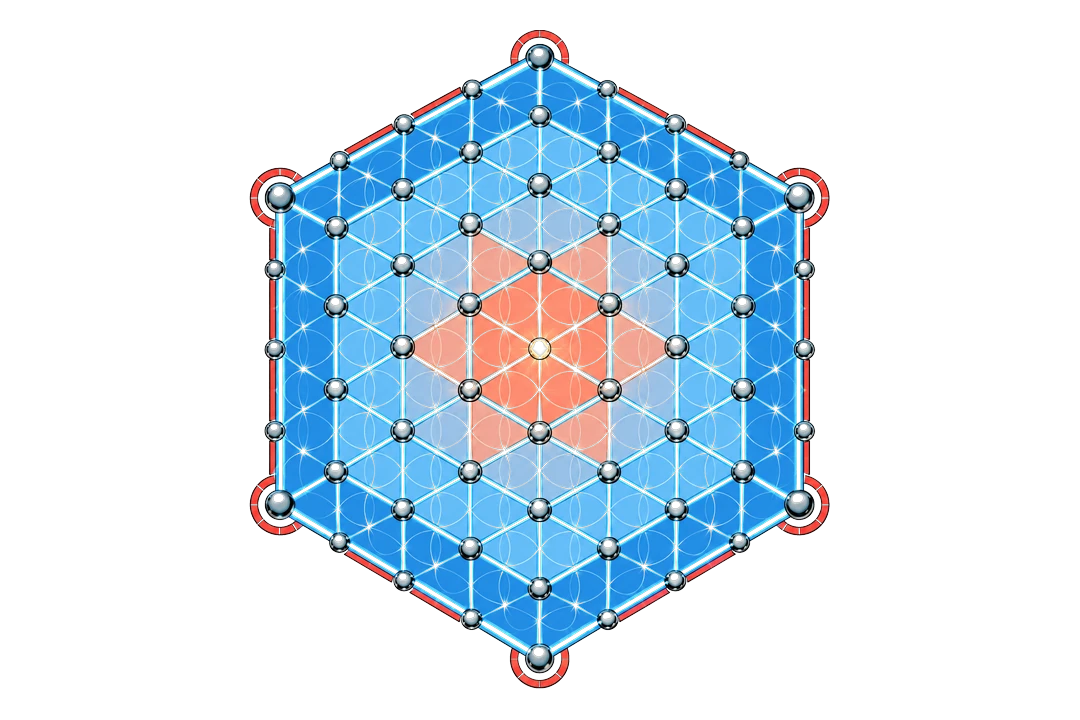
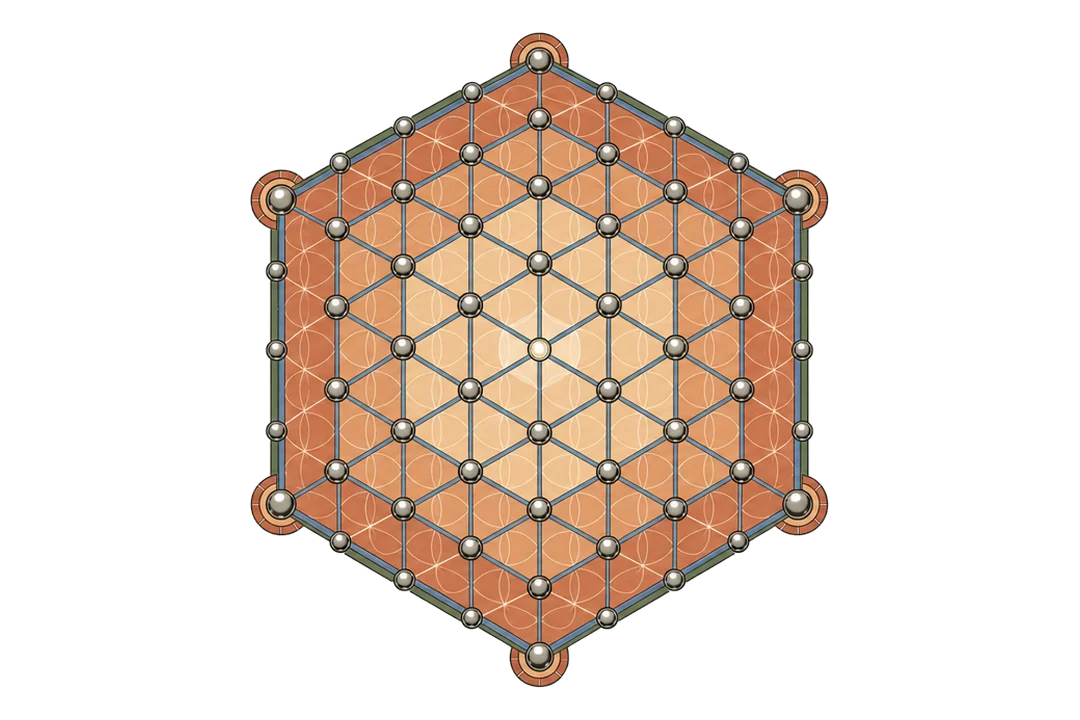
feat: refresh Pluralistic Futures Fellowship site [verified]

diff --git a/index.html b/index.html
@@ -3,8 +3,8 @@
 <head>
   <meta charset="UTF-8">
   <meta name="viewport" content="width=device-width, initial-scale=1.0">
-  <title>d/acc Fellowship — Cape Institute for Safe AI</title>
-  <meta name="description" content="Cultivating human agency in a rapidly changing world. A fellowship in Cape Town, March – June 2027.">
+  <title>Pluralistic Futures Fellowship — Cape Institute for Safe AI</title>
+  <meta name="description" content="Building post-AGI institutions for robustly pluralistic futures. A research fellowship in Cape Town, April – July 2027.">
   <link rel="icon" href="assets/favicon/favicon.ico" sizes="any">
   <link rel="icon" type="image/png" sizes="16x16" href="assets/favicon/favicon-16.png">
   <link rel="icon" type="image/png" sizes="32x32" href="assets/favicon/favicon-32.png">
@@ -57,19 +57,19 @@
     <section id="top" class="hero">
       <div class="wrap hero__grid">
         <div class="hero__text">
-          <h1 class="hero__title">Autumn 2027 Fellowship</h1>
+          <h1 class="hero__title">Pluralistic Futures Fellowship</h1>
           <div class="box hero__box">
-            <p class="hero__tagline">Cultivating human agency in a rapidly changing world.</p>
-            <p class="body-lead">A three-month, in-person fellowship for philosopher-builders, hosted by the <a href="https://www.cisai.co" target="_blank" rel="noopener" class="inline-link">Cape Institute for Safe AI</a> in Cape Town from March to June 2027.</p>
+            <p class="hero__tagline">Building post-AGI institutions for robustly pluralistic futures.</p>
+            <p class="body-lead">A full-time, three-month research program for participants from diverse backgrounds around the world, hosted by the <a href="https://www.cisai.co" target="_blank" rel="noopener" class="inline-link">Cape Institute for Safe AI</a> in Cape Town from April to July 2027.</p>
             <div class="hero__actions">
               <a href="https://tally.so/r/xXA8dy" target="_blank" rel="noopener" class="btn">Apply as a fellow <span class="arrow" aria-hidden="true">→</span></a>
               <a href="#tracks" class="btn btn--ghost">See the tracks</a>
             </div>
-            <p class="hero__deadline"><span class="dot" aria-hidden="true"></span>Applications close 22 November 2026</p>
+            <p class="hero__deadline"><span class="dot" aria-hidden="true"></span>Applications close mid-February 2027</p>
           </div>
         </div>
         <figure class="hero__image">
-          <img src="assets/illustrations/hero.webp" width="1600" height="923" alt="A floating island with Table Mountain at its centre and a solarpunk Cape Town village, with leader lines out to four panels: the settlement under a hexagonal dome, a networked globe, people dancing in a ring under a tree, and a telescope looking out at dawn">
+          <img src="assets/illustrations/hero-archipelago.webp?v=2" width="1200" height="1180" alt="Five floating islands linked by bridges to a central amphitheatre: a terraced market village, a wild mountain with a waterfall, a spaceport with domed labs and solar arrays, greenhouses guarded by floating blue hexagonal panels, and a cultural quarter with dancers, a mural and a mosaic-tiled building">
         </figure>
       </div>
 
@@ -80,7 +80,7 @@
             <span class="fact__label">in residence</span>
           </li>
           <li class="fact">
-            <span class="fact__value">Mar – Jun 2027</span>
+            <span class="fact__value">Apr – Jul 2027</span>
             <span class="fact__label">program dates</span>
           </li>
           <li class="fact">
@@ -88,7 +88,7 @@
             <span class="fact__label">hosted at the <a href="https://www.cisai.co" target="_blank" rel="noopener" class="inline-link">Cape Institute for Safe AI</a></span>
           </li>
           <li class="fact">
-            <span class="fact__value">$3,500/mo</span>
+            <span class="fact__value">$5,000/mo</span>
             <span class="fact__label">stipend</span>
           </li>
         </ul>
@@ -105,7 +105,7 @@
           <div class="box">
             <p class="body-lead">Humanity is entering an era of unprecedented uncertainty, complexity, and volatility. The surging current of technological progress threatens to overwhelm existing institutions, exacerbating existing fragilities. To flourish in such a world, we must build systemic resilience, increase our ability to coordinate to solve collective problems, and empower humanity.</p>
             <h3 class="box__subhead">The nature of this program</h3>
-            <p class="body-lead">This is a mentorship-based, in-person fellowship program, where we aim to accelerate <a href="https://blog.cosmos-institute.org/p/the-philosopher-builder" target="_blank" rel="noopener" class="inline-link">philosopher-builders</a> to develop interventions that serve humanity in the aforementioned ways. Fellows are paired with established mentors, and develop a project alongside a cohort of peers over three months. The fellowship will run from March to June 2027, and will be hosted at the <a href="https://www.cisai.co" target="_blank" rel="noopener" class="inline-link">Cape Institute for Safe AI</a>'s office space. Participants will be provided with resources for building their knowledge and network, and financial support covering their living and travel expenses.</p>
+            <p class="body-lead">This is a mentorship-based, in-person research program around key topics relating to AGI institutions, cooperative AI, and AI resilience. The key aim of this fellowship is to provide the foundations for robust pluralism in a post-AGI world. Fellows are paired with established mentors, and develop a project alongside a cohort of peers over three months. The fellowship will run from April to July 2027, kicks off with a week-long retreat, and will be hosted at the <a href="https://www.cisai.co" target="_blank" rel="noopener" class="inline-link">Cape Institute for Safe AI</a>'s office space. The program acts as a hiring and pre-seed funnel, with fellows presenting to a cohort of organisations and funders at a closing showcase on 16 July. Participants will be provided with resources for building their knowledge and network, and financial support covering their living and travel expenses.</p>
           </div>
         </div>
       </div>
@@ -114,38 +114,38 @@
     <!-- TRACKS -->
     <section id="tracks" class="section">
       <div class="wrap">
-        <h2 class="section-title">Four tracks for differential acceleration.</h2>
+        <h2 class="section-title">Four tracks for a more pluralistic future.</h2>
 
         <div class="tracks">
           <article class="track">
-            <img class="track__image" src="assets/illustrations/resilience.webp" width="1080" height="720" loading="lazy" alt="A hexagonal energy-field shield: a honeycomb mesh of steel nodes and glowing blue conduits around a warm salmon centre">
+            <img class="track__image" src="assets/illustrations/resilience.webp?v=4" width="1080" height="720" loading="lazy" alt="A hexagonal shield with a honeycomb lattice in terracotta and sandstone, metallic nodes and slate-green edges">
             <div class="track__body">
               <h3 class="track__title">Resilience</h3>
-              <p class="track__desc">This track includes developing the ability of humanity to defend against, build tolerance for, and adapt to the various threats that we face, along the axis of cyber, bio, and epistemic risks. This includes topics such as multi-agent security, increasing cyberdefence, and pandemic incident forecasting.</p>
+              <p class="track__desc">Defense-dominant interventions that enable the function of civilization despite the cyber and epistemic risks that AI brings. Includes multi-agent security, provably secure systems, and cognitive security.</p>
             </div>
           </article>
 
           <article class="track">
-            <img class="track__image" src="assets/illustrations/coordination.webp" width="1080" height="720" loading="lazy" alt="The Earth wrapped in a network of connections linking cities across the globe">
+            <img class="track__image" src="assets/illustrations/coordination.webp?v=4" width="1080" height="720" loading="lazy" alt="The Earth wrapped in a network of connections linking cities across the globe">
             <div class="track__body">
               <h3 class="track__title">Coordination</h3>
-              <p class="track__desc">This track refers to interventions that can produce pareto-optimal advances in inter-agent interactions, in systems of human, artificial, and mixed minds. This includes topics such as cooperative AI, AI for democracy, and building coalitions for steering AI outcomes.</p>
+              <p class="track__desc">Defense-flavored coordination technology that enables heterogeneous actors to coordinate, find pareto optimal agreements, and handle dissent effectively.</p>
             </div>
           </article>
 
           <article class="track">
-            <img class="track__image" src="assets/illustrations/empowerment.webp" width="1080" height="720" loading="lazy" alt="A ring of dancers after Matisse, hands linked, alternating solid blue figures and iridescent chrome figures">
+            <img class="track__image" src="assets/illustrations/empowerment.webp?v=4" width="1080" height="720" loading="lazy" alt="A ring of dancers after Matisse, hands linked, alternating solid olive-green figures and silvery chrome figures with terracotta accents">
             <div class="track__body">
               <h3 class="track__title">Empowerment</h3>
-              <p class="track__desc">This track refers to interventions that empower and protect the sovereignty of a wide set of actors. This includes distributing AI capabilities safely, enabling greater individual control of personal data, and secure neurotech.</p>
+              <p class="track__desc">Extending human agency and reaping the benefits of advanced AI without unacceptable privacy trade-offs or degrading societal trust.</p>
             </div>
           </article>
 
           <article class="track">
-            <img class="track__image" src="assets/illustrations/hope.webp" width="1080" height="720" loading="lazy" alt="A dawn landscape seen through a telescope eyepiece: a faceted crystal hovering over rolling hills as the sun rises">
+            <img class="track__image" src="assets/illustrations/hope.webp?v=4" width="1080" height="720" loading="lazy" alt="A dawn landscape seen through a telescope eyepiece: a faceted crystal hovering over rolling hills as the sun rises">
             <div class="track__body">
               <h3 class="track__title">Hope</h3>
-              <p class="track__desc">This track refers to interventions that sketch out feasible and desirable visions for the future.</p>
+              <p class="track__desc">Sketching positive pluralistic visions for the future and suggesting pathways to reach them while acknowledging the possible risks of AI.</p>
               <p class="track__desc">Existing work includes <a href="https://www.existentialhope.com/" target="_blank" rel="noopener" class="inline-link"><em>Existential Hope</em></a> by the Foresight Institute, <a href="https://www.forethought.org/research/design-sketches-for-a-more-sensible-world" target="_blank" rel="noopener" class="inline-link"><em>Design Sketches for a more sensible world</em></a> by Forethought, and <a href="https://airesilience.net/" target="_blank" rel="noopener" class="inline-link"><em>AI Resilience</em></a> by Kembery and Ammann.</p>
             </div>
           </article>
@@ -323,15 +323,15 @@
             </div>
             <div class="details__item">
               <dt>Application deadline</dt>
-              <dd>22nd of November, 2026.</dd>
+              <dd>Mid-February 2027.</dd>
             </div>
             <div class="details__item">
               <dt>Commitment</dt>
-              <dd>This is a full-time program between March and June 2027. Generally, we will not accept candidates that have work commitments throughout the fellowship that exceed 10 hours/week, but please contact <a href="mailto:dacc@cisai.co" class="inline-link">dacc@cisai.co</a> to request an exception.</dd>
+              <dd>This is a full-time program between April and July 2027. Generally, we will not accept candidates that have work commitments throughout the fellowship that exceed 10 hours/week, but please contact <a href="mailto:info@cisai.co" class="inline-link">info@cisai.co</a> to request an exception.</dd>
             </div>
             <div class="details__item">
               <dt>Stipend</dt>
-              <dd>$3,500/month for living expenses. Note that these are generous given the comparatively low cost of living in South Africa.</dd>
+              <dd>$5,000/month for living expenses. Note that these are generous given the comparatively low cost of living in South Africa.</dd>
             </div>
             <div class="details__item">
               <dt>Accommodation</dt>
@@ -351,7 +351,7 @@
             </div>
             <div class="details__item">
               <dt>Compute budget</dt>
-              <dd>We provide a compute budget of $1,500 for the duration of the fellowship.</dd>
+              <dd>We provide a compute budget of $15,000 for the duration of the fellowship.</dd>
             </div>
             <div class="details__item">
               <dt>Participants</dt>
@@ -371,12 +371,12 @@
 
         <div class="theory">
           <figure class="theory__image theory__image--bleed theory__image--square">
-            <img src="assets/illustrations/dacc-hex.webp" width="1024" height="1024" loading="lazy" alt="A boy stands at a fork in the road with a bear, Deceleration, behind him. The left path leads to Domination (centralized power), the right to Doom (existential risks, gray-zone war of all against all), and the centre to &lt;d/acc&gt; (Avoid all three traps, secure bright future for humanity).">
+            <img src="assets/illustrations/pluralism-fork.webp?v=1" width="1200" height="1200" loading="lazy" alt="Three travellers from different cultures walk away from a bear labelled Deceleration towards a fork in the road. On the left a path climbs to a grey fortress, Domination (centralised power); on the right a path leads to a smoking ruin, Doom (existential risks, gray-zone war of all against all); in the centre many paths lead to distinct kingdoms beneath the label Pluralism (avoids all three traps, opens many possible good futures).">
           </figure>
           <div class="box theory__text">
-            <h3 class="box__title">Why d/acc?</h3>
-            <p class="body-lead">d/acc is a philosophy on technological progress introduced by Vitalik Buterin, that advocates for the differential advancement of technologies that support democracy, decentralisation, and defence. This view of selective technological progress is broadly optimistic about the value of technology, but recognises that some forms of technology create asymmetric risk and undermine plurality (Human.Tech, "Building the Future in the Andes."). Furthermore, d/acc emphasises that the distribution of technological advancement is critical for good futures, especially in relation to how technology affects power structures, and vice versa.</p>
-            <p class="body-lead">This fellowship aims to support agendas relating to technological progress that are relatively neglected, largely due to the fact that they require skepticism about the trustworthiness of tech companies, and aims to empower actors outside of the US, though not exclusively.</p>
+            <h3 class="box__title">Why pluralism?</h3>
+            <p class="body-lead">The future is deeply uncertain, yet centralised approaches to AI safety may inadvertently cut off the potential for humanity to explore a richer and more diverse set of values. Furthermore, approaches to AI risk that integrate a greater degree of collectivity may also prevent failure modes such as <a href="https://arxiv.org/abs/2501.16946" target="_blank" rel="noopener" class="inline-link">gradual disempowerment</a>, <a href="https://80000hours.org/problem-profiles/extreme-power-concentration/" target="_blank" rel="noopener" class="inline-link">extreme power concentration</a>, and a <a href="https://asteriskmag.com/issues/15/beware-the-permanent-periphery" target="_blank" rel="noopener" class="inline-link">permanent periphery</a>.</p>
+            <p class="body-lead">That said, existing efforts at addressing AI collectively, such as through middlepower AI governance and international multinational organisations are plagued by institutional difficulties: they are slow, distrusted, poor at collective action, and fundamentally unsuited to coordinate the plethora of coordination problems that large systems of agentic AI pose. To avoid doom, stand against AI-enabled domination, we must chart a third way towards better, more hopeful futures.</p>
           </div>
         </div>
 
@@ -386,11 +386,15 @@
           </figure>
           <div class="box theory__text">
             <h3 class="box__title">Why Cape Town</h3>
-            <p class="body-lead">This fellowship is run by the <a href="https://www.cisai.co" target="_blank" rel="noopener" class="inline-link">Cape Institute for Safe AI</a> (CISAI). CISAI aims to be a world-class science and technology hub, specifically pushing the frontier of differential technological advancement. CISAI aims to attract <a href="https://blog.cosmos-institute.org/p/the-philosopher-builder" target="_blank" rel="noopener" class="inline-link">philosopher-builders</a> who recognise the importance of building systemic resilience, improving coordination around collective action problems, and empowering a pluralistic humanity. CISAI's advantage in this regard is its connections to some of the top academic institutions in Africa and Cape Town's existing position as a tourist hub that internationals are glad to travel to. We believe success at this aim will have local and national implications that could scale to the rest of the continent and the world.</p>
+            <p class="body-lead">This fellowship is run by the <a href="https://www.cisai.co" target="_blank" rel="noopener" class="inline-link">Cape Institute for Safe AI</a> (CISAI). CISAI aims to be a world-class science and technology hub. CISAI aims to attract researchers who recognise the importance of building systemic resilience, improving coordination around collective action problems, and empowering a pluralistic humanity. CISAI's advantage in this regard is its connections to some of the top academic institutions in Africa and Cape Town's existing position as a tourist hub that internationals are glad to travel to. We believe success at this aim will have local and national implications that could scale to the rest of the continent and the world.</p>
             <p class="body-lead">Furthermore, the themes of this fellowship are particularly relevant to the broader African context than many existing agendas in AI safety, which often presume access to the frontier of AI development.</p>
 
-            <details class="read-more">
-              <summary>Read more</summary>
+            <button type="button" class="read-more__open" popovertarget="africa-topics">Read more on why these topics relate to Africa</button>
+            <div id="africa-topics" class="read-more__popup" popover role="dialog" aria-labelledby="africa-topics-title">
+              <div class="read-more__popup-head">
+                <h3 id="africa-topics-title" class="box__title">Why these topics relate to Africa</h3>
+                <button type="button" class="read-more__close" popovertarget="africa-topics" popovertargetaction="hide" aria-label="Close">×</button>
+              </div>
               <div class="read-more__content">
                 <div class="read-more__item">
                   <h4>Resilience</h4>
@@ -398,18 +402,18 @@
                 </div>
                 <div class="read-more__item">
                   <h4>Coordination</h4>
-                  <p>South Africa is currently governed by a coalition government on the national level, and many municipalities are governed similarly. These coalitions are often weak and ineffectual, failing to steer the country into prosperity and often failing to provide basic services. Concurrently, pan-African institutions such as the African Union are often unable to effectively govern continental outcomes. We believe that technology can be used beneficially in this context to uplift human coordination and resolve resource sharing problems. This perspective aligns with the Continental Strategy on AI outlined by the African Union.</p>
+                  <p>South Africa is currently governed by a <a href="https://en.wikipedia.org/wiki/Government_of_National_Unity_(South_Africa,_2024)" target="_blank" rel="noopener" class="inline-link">coalition government</a> on the national level, and many municipalities are governed similarly. These coalitions are often weak and ineffectual, failing to steer the country into prosperity and often failing to provide basic services. Concurrently, pan-African institutions such as the African Union are often unable to effectively govern continental outcomes. We believe that technology can be used beneficially in this context to uplift human coordination and resolve resource sharing problems. This perspective aligns with the <a href="https://au.int/en/documents/20240809/continental-artificial-intelligence-strategy" target="_blank" rel="noopener" class="inline-link">Continental Strategy on AI</a> outlined by the African Union.</p>
                 </div>
                 <div class="read-more__item">
                   <h4>Empowerment</h4>
-                  <p>Africa is expected to have rapid AI adoption, given that it is, demographically, the youngest, most quickly growing continent. AI could easily create dynamics that create further fragmentation, oppression, and disempowerment. Creating pathways for Africans to empower themselves would have large implications for the wellbeing of humans on the continent and future generations.</p>
+                  <p>Africa is expected to have rapid AI adoption, given that it is, demographically, the <a href="https://www.wilsoncenter.org/blog-post/africas-median-age-about-19-median-age-its-leaders-about-63" target="_blank" rel="noopener" class="inline-link">youngest</a>, most quickly growing continent. AI could easily create dynamics that create further fragmentation, oppression, and disempowerment. Creating pathways for Africans to empower themselves would have large implications for the wellbeing of humans on the continent and future generations.</p>
                 </div>
                 <div class="read-more__item">
                   <h4>Hope</h4>
                   <p>Africa is highly diverse culturally, and there are often tensions between groups. Providing an inspiring and enlivening vision of the future for people to work towards together would be beautiful.</p>
                 </div>
               </div>
-            </details>
+            </div>
           </div>
         </div>
       </div>
@@ -437,8 +441,8 @@
                 <p>This will be a five-phase application process. The first phase will take approximately 45–75 minutes to complete. We encourage you to submit your application even if it feels unpolished; we value authenticity and substance over perfect presentation. We value inclusion and encourage applicants from diverse backgrounds. Please contact us if you require special accommodation in order to apply.</p>
                 <ol class="phases">
                   <li>
-                    <h4>Initial review <span class="phases__deadline">deadline 22 November 2026</span></h4>
-                    <p>Applications are reviewed on a rolling basis with decisions made by late December, 2026. Early submission is encouraged.</p>
+                    <h4>Initial review <span class="phases__deadline">deadline mid-February 2027</span></h4>
+                    <p>Applications are reviewed on a rolling basis with final offers made by mid-March 2027. Early submission is encouraged.</p>
                   </li>
                   <li>
                     <h4>Paid work sample <span class="phases__deadline">2–3 hours</span></h4>
@@ -463,11 +467,11 @@
             <details class="faq__item">
               <summary>What are the program's selection criteria?</summary>
               <div class="faq__answer">
-                <p>We welcome participants from anywhere in the world, from many levels of experience, but a basic understanding of machine learning is required (i.e. the equivalent of having completed one undergraduate course in ML). Our intention for this fellowship is to catalyse career growth in early-stage researchers who aim to contribute significantly to the fields of AI safety and d/acc. As such, we are looking for candidates with high potential whose careers could be significantly accelerated by this program. As evidence of this, we evaluate applications based on the following criteria:</p>
+                <p>We welcome participants from anywhere in the world, from many levels of experience, but a basic understanding of machine learning is required (i.e. the equivalent of having completed one undergraduate course in ML). Our intention for this fellowship is to catalyse career growth in early-stage researchers who aim to contribute significantly to the fields of AI safety, cooperative AI, and AI resilience. As such, we are looking for candidates with high potential whose careers could be significantly accelerated by this program. As evidence of this, we evaluate applications based on the following criteria:</p>
                 <dl class="criteria">
                   <div class="criteria__item">
                     <dt>General program fit</dt>
-                    <dd>We look for candidates who have demonstrated the ability to complete projects, solve problems independently, and drive results despite obstacles or uncertainty. We also look for candidates who have demonstrated prior engagement with topics in AI safety or d/acc related fields through reading, coursework, workshops, conferences, or other learning activities.</dd>
+                    <dd>We look for candidates who have demonstrated the ability to complete projects, solve problems independently, and drive results despite obstacles or uncertainty. We also look for candidates who have demonstrated prior engagement with topics in AI safety, cooperative AI, or AI resilience through reading, coursework, workshops, conferences, or other learning activities.</dd>
                   </div>
                   <div class="criteria__item">
                     <dt>Domain competence &amp; research skills</dt>
@@ -483,7 +487,7 @@
                   </div>
                   <div class="criteria__item">
                     <dt>Counterfactual</dt>
-                    <dd>We also consider the potential counterfactual impact of the fellowship on your career trajectory. We particularly look at candidates who would have limited access to similar opportunities elsewhere, those from underrepresented communities, or those who could significantly benefit from exposure to AI safety and the d/acc communities.</dd>
+                    <dd>We also consider the potential counterfactual impact of the fellowship on your career trajectory. We particularly look at candidates who would have limited access to similar opportunities elsewhere, those from underrepresented communities, or those who could significantly benefit from exposure to the AI safety and cooperative AI communities.</dd>
                   </div>
                 </dl>
               </div>
@@ -537,22 +541,22 @@
         <div class="calls">
           <a href="https://tally.so/r/xXA8dy" target="_blank" rel="noopener" class="call">
             <span class="call__title">Fellows</span>
-            <span class="call__desc">Philosopher-builders ready to spend three months in Cape Town working on differential acceleration.</span>
+            <span class="call__desc">Researchers from diverse backgrounds ready to spend three months in Cape Town working on pluralistic futures.</span>
             <span class="call__cta">Apply <span class="arrow" aria-hidden="true">→</span></span>
           </a>
           <a href="https://tally.so/r/44Ml2k" target="_blank" rel="noopener" class="call">
             <span class="call__title">Mentors</span>
-            <span class="call__desc">Established builders, practitioners and thinkers willing to guide a fellow's work across one of our four tracks.</span>
+            <span class="call__desc">Researchers familiar with cooperative AI, AGI institutions, and AI resilience, willing to guide a fellow's work across one of our four tracks.</span>
             <span class="call__cta">Express interest <span class="arrow" aria-hidden="true">→</span></span>
           </a>
           <a href="https://tally.so/r/RGAqzd" target="_blank" rel="noopener" class="call">
             <span class="call__title">Funders</span>
-            <span class="call__desc">We need aligned funders who care about differential technological development, and building hubs in emerging ecosystems. Get in touch and we will follow up.</span>
+            <span class="call__desc">We need aligned funders who care about pluralistic futures, and building hubs in emerging ecosystems. Get in touch and we will follow up.</span>
             <span class="call__cta">Get in touch <span class="arrow" aria-hidden="true">→</span></span>
           </a>
           <a href="https://tally.so/r/2Ep94L" target="_blank" rel="noopener" class="call">
             <span class="call__title">Partners</span>
-            <span class="call__desc">Organisations working on resilience, coordination, empowerment, or existential hope who want to collaborate. We are seeking help connecting to mentors, finding talent, and amplification of this program, and connecting fellows to opportunities post-fellowship.</span>
+            <span class="call__desc">We are seeking help connecting to mentors, finding talent, and amplification of this program, and connecting fellows to opportunities post-fellowship.</span>
             <span class="call__cta">Partner with us <span class="arrow" aria-hidden="true">→</span></span>
           </a>
         </div>
@@ -567,8 +571,8 @@
         <img src="assets/brand/logo.png" alt="CISAI — Cape Institute for Safe AI" width="207" height="51">
       </a>
       <div class="site-footer__text">
-        <p class="site-footer__tag">Cultivating human agency in a rapidly changing world.</p>
-        <p class="site-footer__sub">The d/acc Fellowship is a program of the <a href="https://www.cisai.co" target="_blank" rel="noopener" class="inline-link">Cape Institute for Safe AI</a>. Questions: <a href="mailto:dacc@cisai.co" class="inline-link">dacc@cisai.co</a></p>
+        <p class="site-footer__tag">Building post-AGI institutions for robustly pluralistic futures.</p>
+        <p class="site-footer__sub">The Pluralistic Futures Fellowship is a program of the <a href="https://www.cisai.co" target="_blank" rel="noopener" class="inline-link">Cape Institute for Safe AI</a>. Questions: <a href="mailto:info@cisai.co" class="inline-link">info@cisai.co</a></p>
       </div>
     </div>
   </footer>

diff --git a/styles.css b/styles.css
@@ -435,23 +435,46 @@ ul, ol { padding: 0; list-style: none; }
 .theory__image--bleed { position: relative; padding: 0; overflow: hidden; }
 .theory__image--bleed img { position: absolute; inset: 0; width: 100%; height: 100%; max-width: none; object-fit: cover; }
 
-.read-more { margin-top: 28px; border-top: var(--border); }
-.read-more summary {
-  cursor: pointer;
-  list-style: none;
-  display: inline-flex;
-  align-items: center;
-  gap: 8px;
+.read-more__open {
+  margin-top: 28px;
   padding: 20px 0 0;
+  width: 100%;
+  text-align: left;
+  background: none;
+  border: 0;
+  border-top: var(--border);
+  cursor: pointer;
+  font-family: var(--font-body);
   font-size: 14px;
   font-weight: 700;
   letter-spacing: 0.08em;
   text-transform: uppercase;
   color: var(--blue);
 }
-.read-more summary::-webkit-details-marker { display: none; }
-.read-more summary::after { content: "↓"; transition: transform 0.2s ease; }
-.read-more[open] summary::after { transform: rotate(180deg); }
+.read-more__open::after { content: " →"; }
+.read-more__popup {
+  width: min(720px, calc(100vw - 32px));
+  max-height: min(85vh, 900px);
+  overflow-y: auto;
+  margin: auto;
+  padding: clamp(20px, 4vw, 40px);
+  background: var(--white);
+  border: var(--border);
+  color: var(--ink);
+}
+.read-more__popup::backdrop { background: rgba(10, 20, 40, 0.45); }
+.read-more__popup-head { display: flex; justify-content: space-between; align-items: flex-start; gap: 16px; }
+.read-more__close {
+  flex: none;
+  width: 40px; height: 40px;
+  background: none;
+  border: var(--border);
+  border-radius: 50%;
+  font-size: 22px; line-height: 1;
+  cursor: pointer;
+  color: var(--ink);
+}
+.read-more__close:hover, .read-more__open:hover { opacity: 0.7; }
 .read-more__content { margin-top: 20px; }
 .read-more__item { padding: 18px 0; border-top: var(--border); }
 .read-more__item h4 { font-size: 17px; margin-bottom: 8px; }
